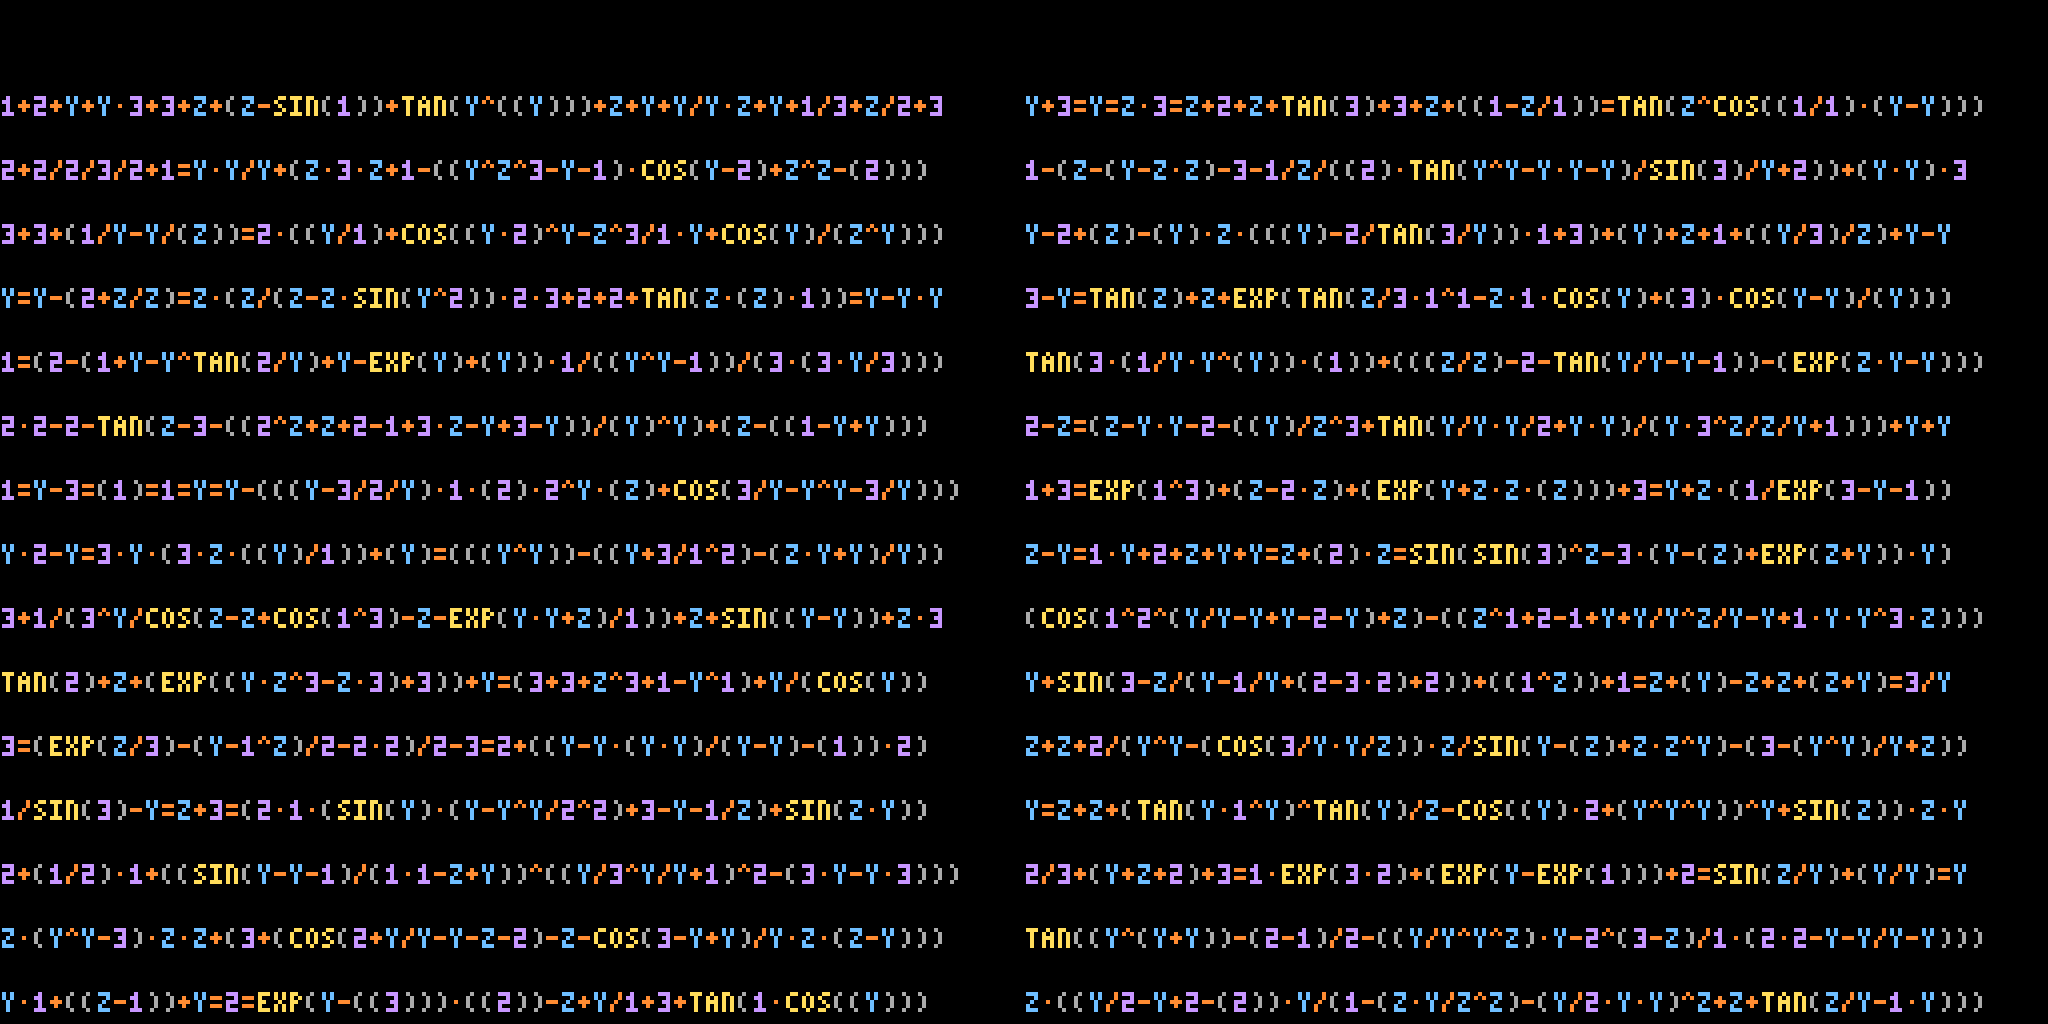
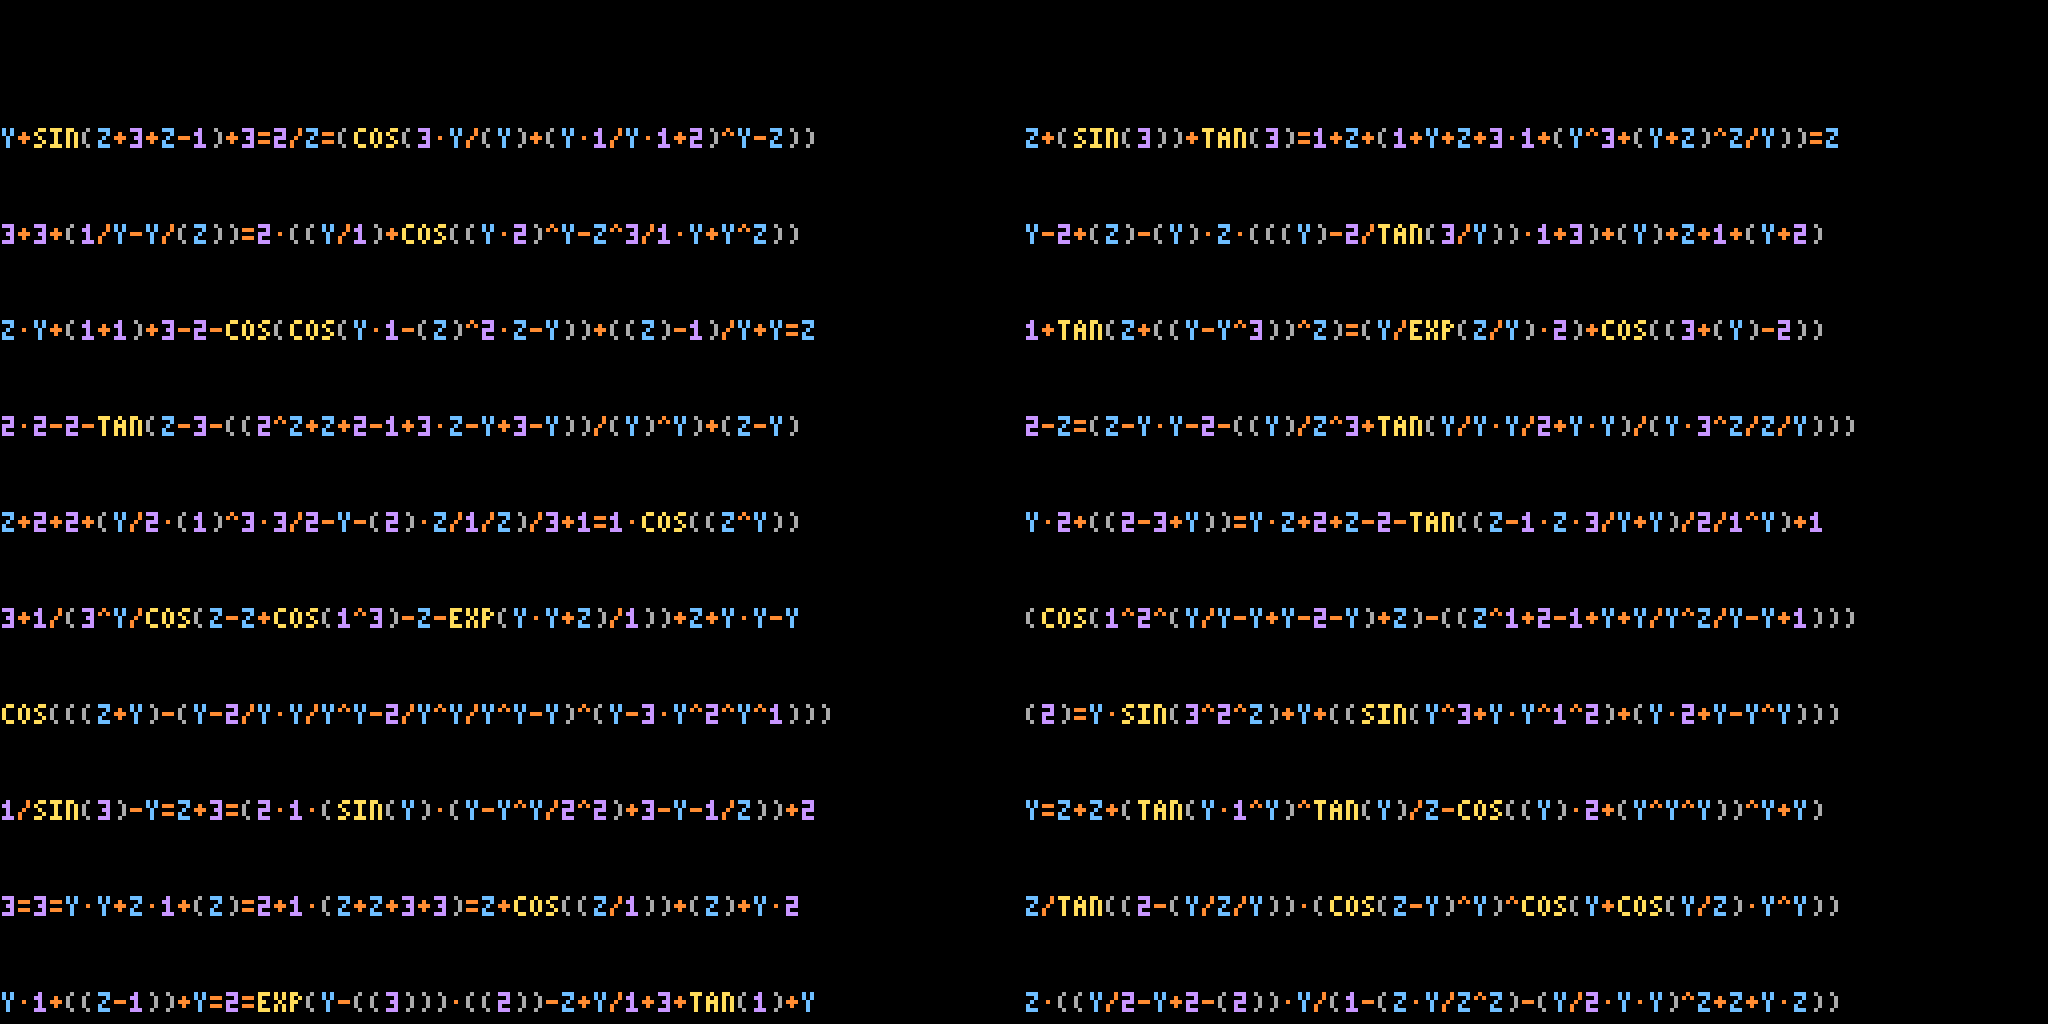
[C] equations v2: wider spacing (12-cell gap, two blank rows) after user feedback

diff --git a/claude_instructions.md b/claude_instructions.md
@@ -21,7 +21,7 @@ left to right. This is what the JXL Art community does; the web tool is https://
 5. `equations` — lines of random well-formed equations with matched parentheses, function
    names written downward; `equations_crt` — the same with the CRT look; `equations_v2` —
    names inline (SIN COS TAN EXP), syntax-coloured by token kind, two 60-token equations per
-   row with a 4-cell gap and a blank row between lines; `equations_v3` — the same on a
+   row with a 12-cell gap and two blank rows between lines; `equations_v3` — the same on a
    1024x1024 single-group canvas, one 64-token equation per line.
 
 **Hard constraints:** file size <= 1024 bytes (`anything above a kilobyte is banned`), image
@@ -285,7 +285,7 @@ Same text and mask as v1 plus two hidden channels and a colour rule (all in art/
   are not available: brightness can only take a few discrete leaf values per region.
 
 ### equations — equations.tree (561 B), equations_crt.tree (630 B), equations_v2.tree (698 B), equations_v3.tree (658 B)
-Generate with `--equations`, `--equations --crt`, `--equations --inline --gap 4 --row_gap 1` (v2) and
+Generate with `--equations`, `--equations --crt`, `--equations --inline --gap 12 --row_gap 2` (v2) and
 `--equations --inline --width 1024 --name equations_v3` (v3).
 A context-free grammar rendered as text. Matched parentheses of one kind are a one-counter
 language (Dyck-1), so no stack is needed: tokens are generated left to right, one per 16x32 cell,
@@ -307,14 +307,15 @@ choices use the 5-bit value V. The first band is blank (too close to the seed ro
   channel K = 0 unlit else 1 + kind of the glyph (parens, operators, variables, digits,
   functions; the glyph order keeps kinds contiguous so kind = thresholds on the token), and
   R G B are five-entry palette lookups (EQ_PALETTE), no RCT. `gap` cells at the end of each
-  group stay blank (v2: 60-token equations, 4-cell gap between the two per row); `row_gap`
+  group stay blank (v2: 52-token equations, 12-cell gap between the two per row); `row_gap`
   blank cell rows between lines are made by a row-type channel RT (period row_gap + 1) that
-  blanks the state on spacer rows (v2: 1, so 15 lines per group).
+  blanks the state on spacer rows (v2: 2, so 10 lines per group). Gap sizes change only
+  threshold constants, so the byte count is unchanged.
 - v3 (`equations_v3`, user: "one equation per line"): v2 on a 1024x1024 canvas. One decoder
   group means one line per cell row; a line cannot span two groups because groups decode
   independently and the depth counter cannot cross the boundary.
 Verification: `python3.10 art/experiments/verify_equations.py equations|equations_v2` reads the
-glyphs back from the PNG (max of R,G,B > 60 = lit) and checks every line: 20/20, 30/30, 30/30.
+glyphs back from the PNG (max of R,G,B > 60 = lit) and checks every line: 20/20, 20/20, 30/30.
 
 ### Decoder validity: no redundant splits
 libjxl validates trees on decode: a split on a property whose outcome is already fixed by an

diff --git a/concerns.md b/concerns.md
@@ -210,3 +210,8 @@
 - User repeated "add some space between them in the dense version"; read as vertical too. Added
   `row_gap`: a row-type channel (period row_gap + 1) blanks the state on spacer rows. v2 now has a
   blank row between lines (15 per group) plus the 4-cell horizontal gap: 698 B. Verified 30/30.
+
+## 2026-09-04 09:25 — v2 still read as a wall of text
+- User: "this is a wall of text i cant see where one equation starts and another ends i want more
+  space between them". Rendered gap/row_gap variants (8/2, 12/2, 12/3; all 698 B since only
+  thresholds change) and chose 12/2: two clear columns, 10 lines per group. 12/3 looked empty.

diff --git a/.claude_todo.md b/.claude_todo.md
@@ -20,4 +20,5 @@ then "make it bigger and fit the aspect ratio ... more letters and not square", 
 - [x] DSL simplify() pass (libjxl rejects redundant splits)
 - [x] equations v2 gap (two per row, 4-cell gap) 675 B; equations_v3 one per line (1024x1024) 658 B; verified
 - [x] equations v2: blank row between lines (--row_gap 1) -> 698 B
+- [x] equations v2: wider spacing after user feedback (--gap 12 --row_gap 2), 698 B
 - [ ] Ideas if wanted: golf digits; colour variants; a frenzy on further size ideas
